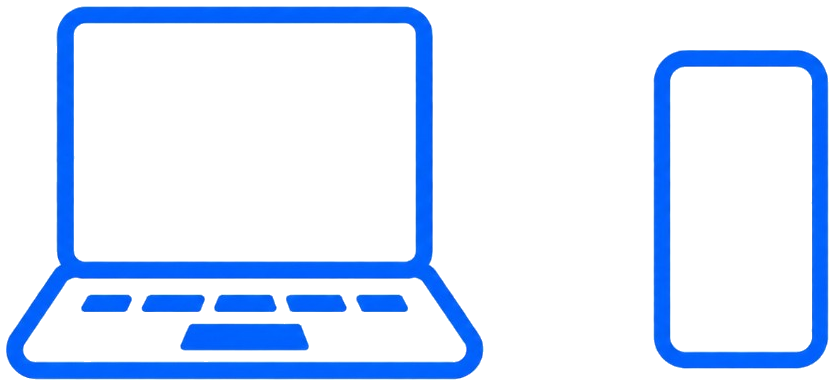
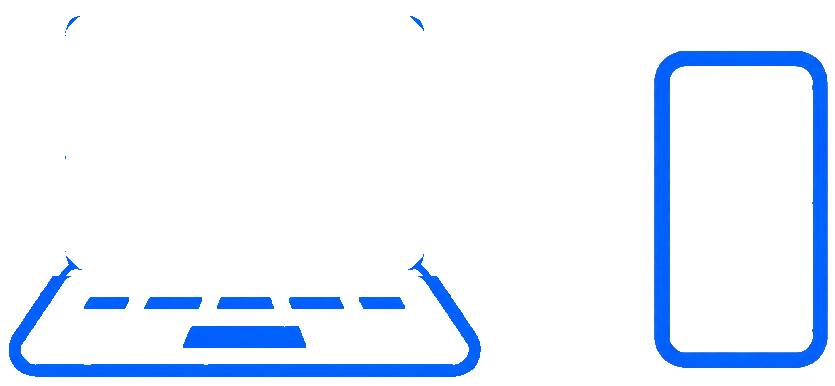
Update asset version and refine hero flow synchronization graphics
- Changed ASSET_VERSION in app.js to "20260512-mac-screen-white-solid" for consistency.
- Adjusted synchronization path coordinates and label positions in app.js for improved visual alignment.
- Updated stroke width and dasharray properties in styles.css for better visibility of synchronization paths.
- Updated .DS_Store and several image assets to reflect recent changes.

Changed region(s): [[0.0, 0.0, 0.5916, 0.9948]]

diff --git a/app.js b/app.js
@@ -1,5 +1,5 @@
 (function () {
-  const ASSET_VERSION = "20260512-tap-icon-white-fill";
+  const ASSET_VERSION = "20260512-mac-screen-white-solid";
   const CONCEPT_VIDEO_YT_ID = "b0-eWvKMeOk";
   const WIP_DOWNLOAD_X_URL = "https://x.com/sideclip_dev?s=21&t=2OHl3cS0nDMUprBn7N6jyw";
   const PRE_REGISTRATION_FORM_URL = "https://forms.gle/KbNn5T3TBVz459HBA";
@@ -573,7 +573,7 @@
                   <path
                     class="hero-flow-sync__path hero-flow-sync__path--to-phone"
                     marker-end="url(#heroFlowSyncArrowhead)"
-                    d="M 433 282 C 548 198 702 173 776 253"
+                    d="M 433 274 C 548 192 702 173 776 253"
                   />
                   <path
                     class="hero-flow-sync__path hero-flow-sync__path--to-mac"
@@ -582,7 +582,7 @@
                   />
                   <text
                     class="hero-flow-sync__cap-label hero-flow-sync__cap-label--copy"
-                    x="418"
+                    x="432"
                     y="284"
                     text-anchor="end"
                     dominant-baseline="middle"
@@ -592,7 +592,7 @@
                   </text>
                   <text
                     class="hero-flow-sync__cap-label hero-flow-sync__cap-label--paste"
-                    x="238"
+                    x="224"
                     y="322"
                     text-anchor="start"
                     dominant-baseline="auto"

diff --git a/styles.css b/styles.css
@@ -902,11 +902,11 @@ img {
 .hero-flow-sync__path {
   fill: none;
   stroke: currentColor;
-  stroke-width: 7;
+  stroke-width: 5;
   vector-effect: non-scaling-stroke;
   stroke-linecap: butt;
   stroke-linejoin: round;
-  stroke-dasharray: 8 12;
+  stroke-dasharray: 6 10;
   opacity: 0;
   stroke-dashoffset: var(--flow-path-len, 900);
 }
